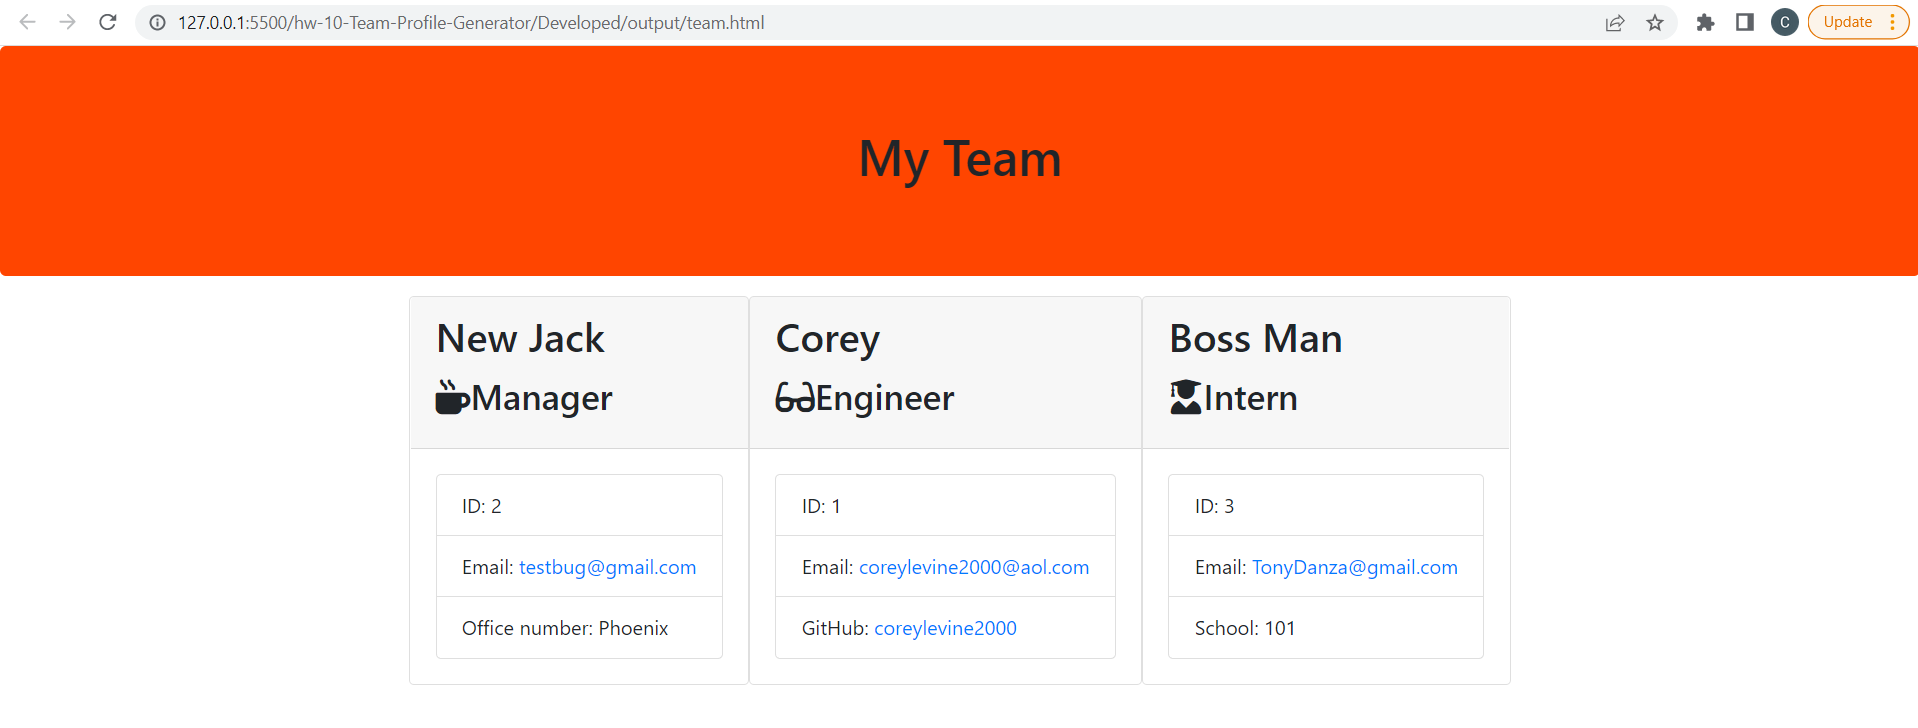
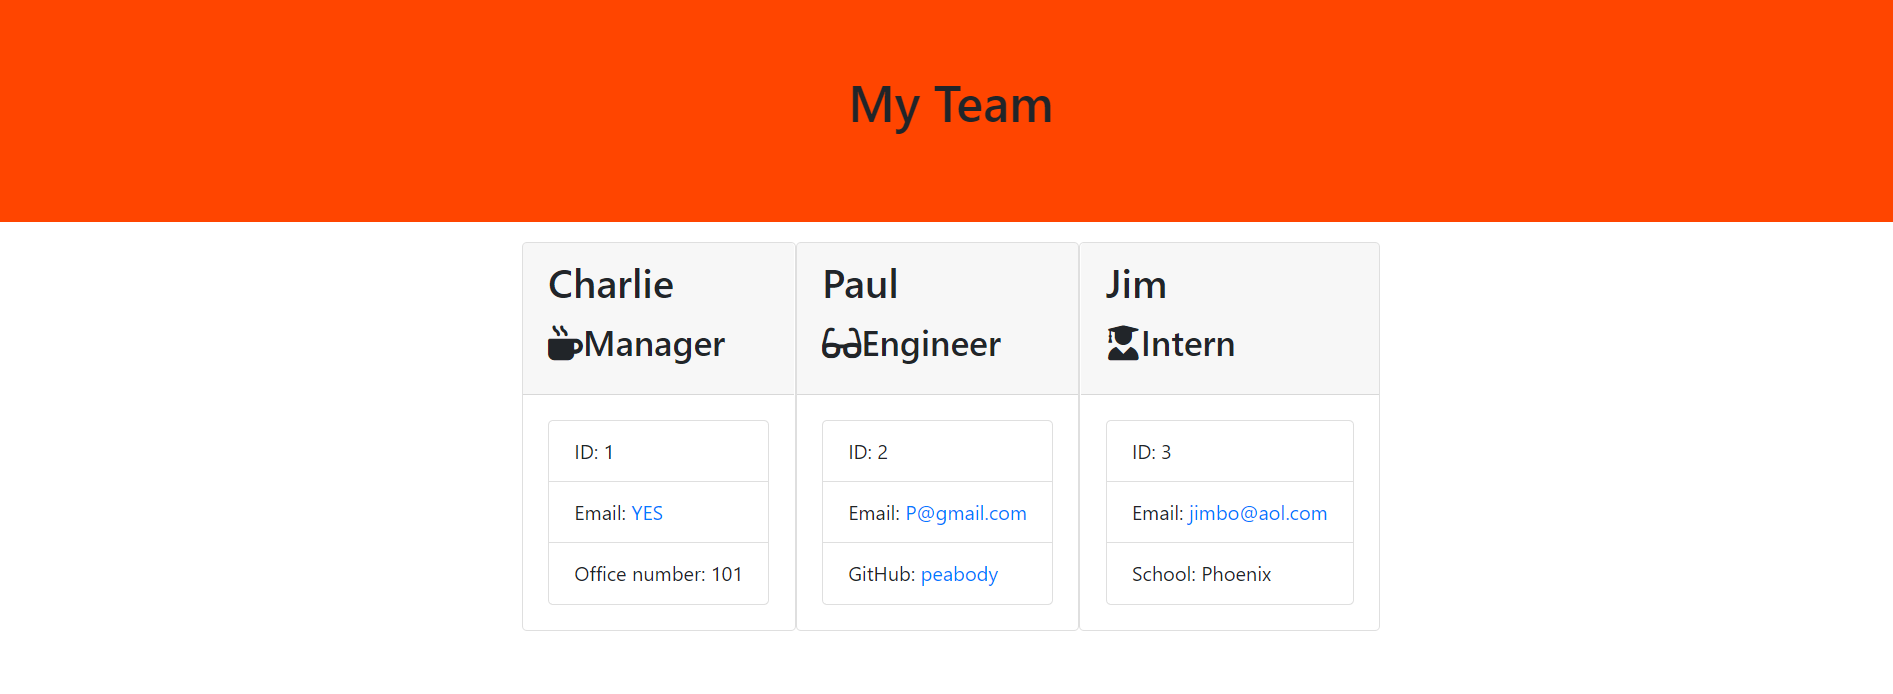
.

diff --git a/Developed/output/team.html b/Developed/output/team.html
@@ -25,13 +25,13 @@
 
 <div class="card employee-card">
     <div class="card-header">
-        <h2 class="card-title">A</h2>
+        <h2 class="card-title">Charlie</h2>
         <h3 class="card-title"><i class="fa-solid fa-mug-hot"></i>Manager</h3>
     </div>
     <div class="card-body">
         <ul class="list-group">
             <li class="list-group-item">ID: 1</li>
-            <li class="list-group-item">Email: <a href="mailto:A@aol.com">A@aol.com</a></li>
+            <li class="list-group-item">Email: <a href="mailto:YES">YES</a></li>
             <li class="list-group-item">Office number: 101</li>
         </ul>
     </div>
@@ -41,14 +41,14 @@
 
 <div class="card employee-card">
     <div class="card-header">
-        <h2 class="card-title">B</h2>
+        <h2 class="card-title">Paul</h2>
         <h3 class="card-title"><i class="fa-solid fa-glasses"></i>Engineer</h3>
     </div>
     <div class="card-body">
         <ul class="list-group">
             <li class="list-group-item">ID: 2</li>
-            <li class="list-group-item">Email: <a href="mailto:b@yahoo.com">b@yahoo.com</a></li>
-            <li class="list-group-item">GitHub: <a href="https://github.com/BBB" target="_blank" rel="noopener noreferrer">BBB</a></li>
+            <li class="list-group-item">Email: <a href="mailto:P@gmail.com">P@gmail.com</a></li>
+            <li class="list-group-item">GitHub: <a href="https://github.com/peabody" target="_blank" rel="noopener noreferrer">peabody</a></li>
         </ul>
     </div>
 </div>
@@ -56,30 +56,14 @@
 
 <div class="card employee-card">
     <div class="card-header">
-        <h2 class="card-title">C</h2>
+        <h2 class="card-title">Jim</h2>
         <h3 class="card-title"><i class="fa-solid fa-user-graduate"></i>Intern</h3>
     </div>
     <div class="card-body">
         <ul class="list-group">
             <li class="list-group-item">ID: 3</li>
-            <li class="list-group-item">Email: <a href="mailto:C@hotmail.com">C@hotmail.com</a></li>
-            <li class="list-group-item">School: Yale</li>
-        </ul>
-    </div>
-</div>
-
-,<!-- Template for INTERN -->
-
-<div class="card employee-card">
-    <div class="card-header">
-        <h2 class="card-title">D</h2>
-        <h3 class="card-title"><i class="fa-solid fa-user-graduate"></i>Intern</h3>
-    </div>
-    <div class="card-body">
-        <ul class="list-group">
-            <li class="list-group-item">ID: 4</li>
-            <li class="list-group-item">Email: <a href="mailto:D@rocketmail.com">D@rocketmail.com</a></li>
-            <li class="list-group-item">School: UCF</li>
+            <li class="list-group-item">Email: <a href="mailto:jimbo@aol.com">jimbo@aol.com</a></li>
+            <li class="list-group-item">School: Phoenix</li>
         </ul>
     </div>
 </div>

diff --git a/Developed/templates/main.html b/Developed/templates/main.html
@@ -4,7 +4,7 @@
 <html lang="en">
 
 <head>
-    <title>My Team</title>
+    <title>Team Generator</title>
     <link rel="stylesheet" href="https://stackpath.bootstrapcdn.com/bootstrap/4.3.1/css/bootstrap.min.css"
         integrity="sha384-ggOyR0iXCbMQv3Xipma34MD+dH/1fQ784/j6cY/iJTQUOhcWr7x9JvoRxT2MZw1T" crossorigin="anonymous">
     <script src="https://kit.fontawesome.com/c3c5390e83.js" crossorigin="anonymous"></script></style>
@@ -14,7 +14,7 @@
     <div class="container-fluid">
         <div class="row">
             <div class="col-12 jumbotron mb-3 team-heading" style="background-color:orangered">
-                <h1 class="text-center">My Team</h1>
+                <h1 class="text-center">My Generated Team</h1>
             </div>
         </div>
     </div>
